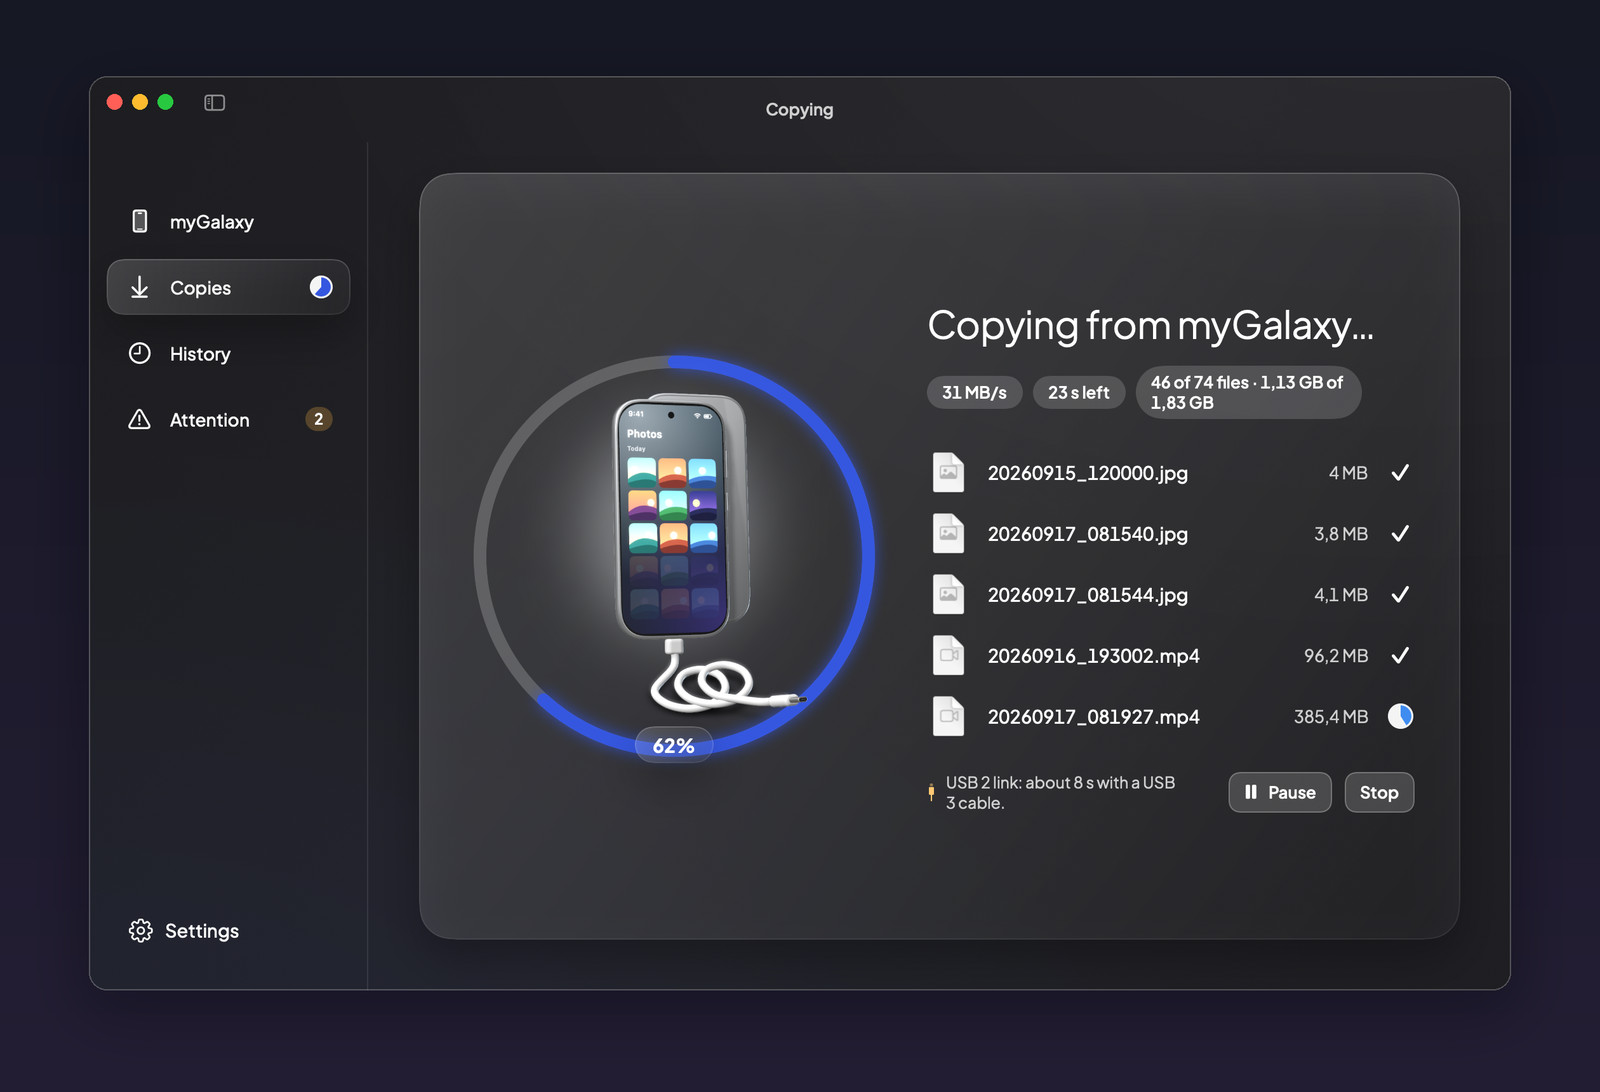
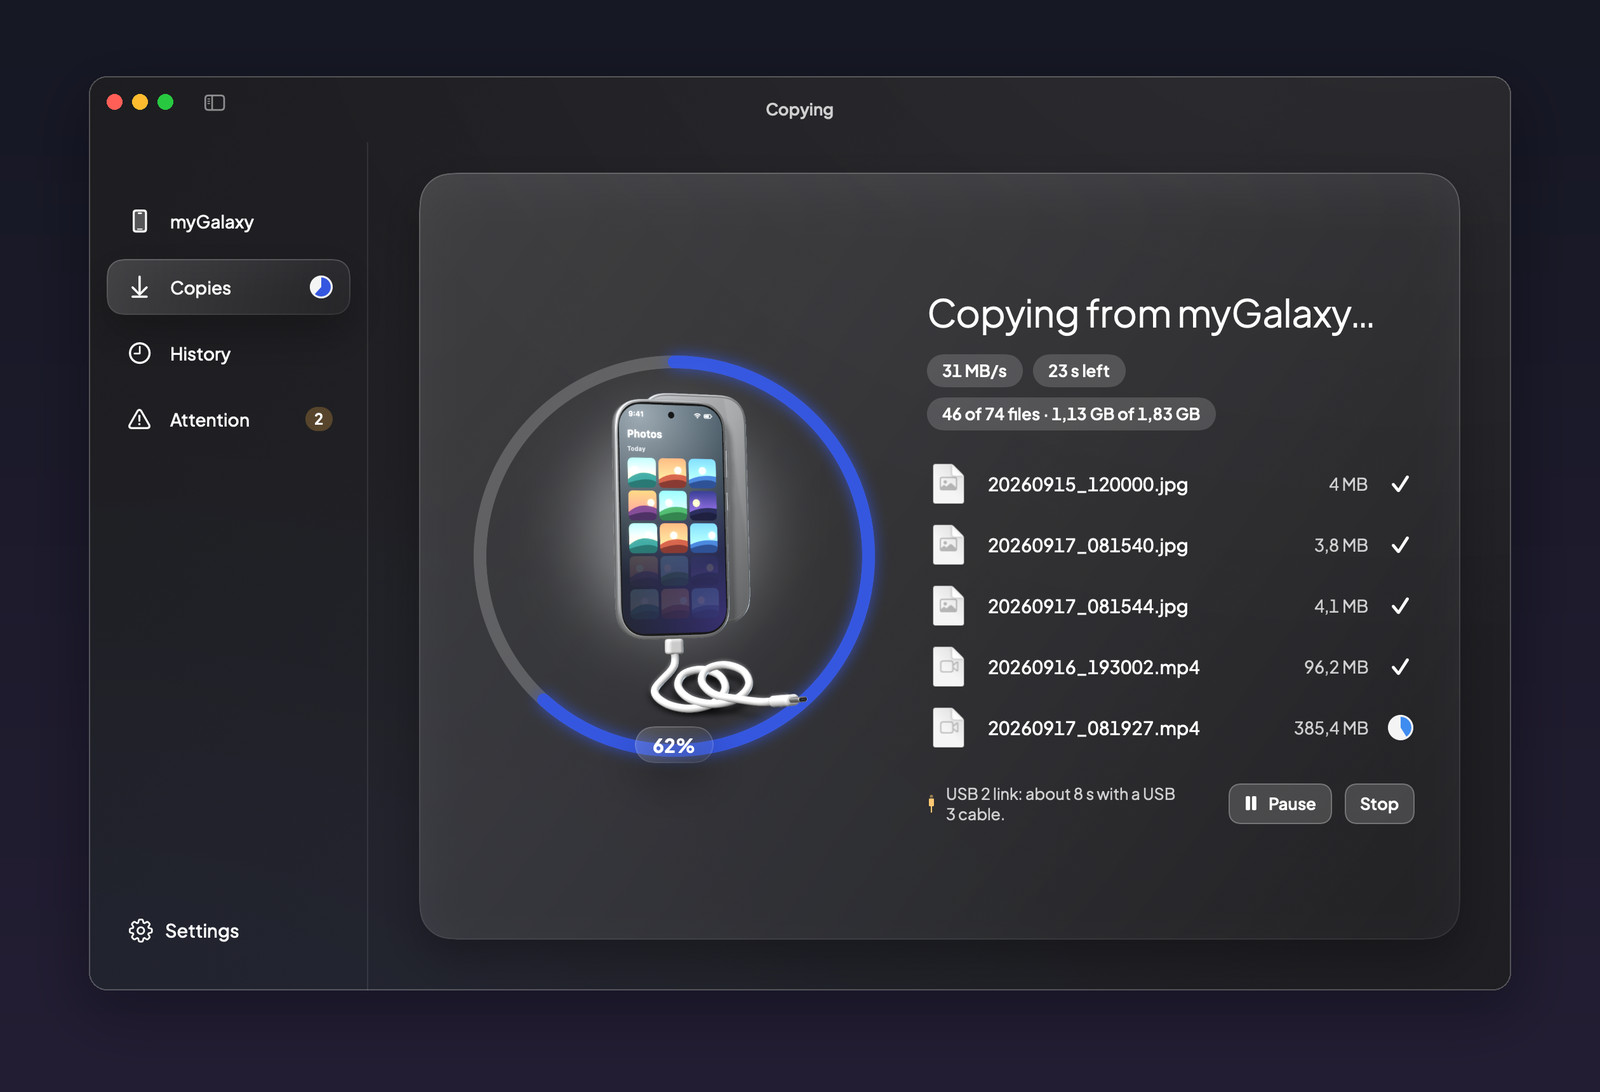
README: a looping animation of Pulli at work (light and dark), rendered by the app's new --readme-frames mode; copy screen keeps its layout steady while numbers grow

diff --git a/Sources/Pulli/Snapshots.swift b/Sources/Pulli/Snapshots.swift
@@ -74,6 +74,81 @@ enum Snapshots {
         print("wrote snapshots to \(folder.path)")
     }
 
+    /// `Pulli --readme-frames DIR`: the frames of the README's animation, dark and light, from the
+    /// sample phone. One copy of its Camera folder from start to finish (waiting, ready, copying,
+    /// unplugged, copying again, done); every frame shows the same batch, so its numbers carry on
+    /// from one scene to the next. Frames only: another tool puts them together.
+    static func renderReadmeFrames(to folder: URL) {
+        _ = NSApplication.shared
+        try? FileManager.default.createDirectory(at: folder, withIntermediateDirectories: true)
+        let files = cameraFiles
+        let totalBytes = files.reduce(UInt64(0)) { $0 + $1.sizeBytes }
+        let speed = 31_400_000.0
+        // How long the phone stays unplugged; the finished screen's time and average include it.
+        let unplugged: TimeInterval = 8
+        let now = Date()
+
+        /// The Camera copy with `fraction` of its bytes on the Mac, files finished in order.
+        func batch(_ fraction: Double, _ phase: BatchPhase, resumed: Bool = false) -> BatchSnapshot {
+            let bytesDone = UInt64((Double(totalBytes) * fraction).rounded())
+            var finished = 0
+            var finishedBytes: UInt64 = 0
+            while finished < files.count, finishedBytes + files[finished].sizeBytes <= bytesDone {
+                finishedBytes += files[finished].sizeBytes
+                finished += 1
+            }
+            let recent = (0..<finished).reversed().prefix(BatchSnapshot.recentLimit).map {
+                FileSnapshot(jobID: Int64($0), name: files[$0].name, sizeBytes: files[$0].sizeBytes, bytesDone: files[$0].sizeBytes, state: .done)
+            }
+            let current = finished < files.count
+                ? FileSnapshot(jobID: Int64(finished), name: files[finished].name, sizeBytes: files[finished].sizeBytes,
+                               bytesDone: bytesDone - finishedBytes, state: .copying)
+                : nil
+            let copying = phase == .copying
+            let remaining = Double(totalBytes - bytesDone)
+            let elapsed = Double(bytesDone) / speed + (resumed ? unplugged : 0)
+            return BatchSnapshot(id: 13, deviceID: phone.id, deviceName: "myGalaxy", title: "Camera",
+                                 destinationPath: NSHomeDirectory() + "/Downloads/myGalaxy", phase: phase,
+                                 filesTotal: files.count, filesDone: finished, filesSkipped: 0, filesNeedingAttention: 0,
+                                 bytesTotal: totalBytes, bytesDone: bytesDone, bytesPerSecond: copying ? speed : 0,
+                                 // No "1 s left" on the last frame, when nothing is left.
+                                 secondsRemaining: copying && remaining > 0 ? remaining / speed : nil,
+                                 current: phase == .completed ? nil : current, recent: recent,
+                                 createdAt: now.addingTimeInterval(-elapsed), finishedAt: phase == .completed ? now : nil)
+        }
+
+        /// The sample state with only this copy and one older, finished one (nothing else running
+        /// or needing attention to catch the eye).
+        func model(_ batch: BatchSnapshot?, connected: Bool = true) -> AppModel {
+            var story = state
+            story.batches = story.batches.filter { $0.key == 9 }
+            if let batch { story.batches[batch.id] = batch }
+            if !connected { story.devices = [:] }
+            let model = AppModel(preview: story, summaries: [phone.id: summary])
+            model.previewListings = ["/DCIM/Camera": cameraFiles]
+            model.picks = [.camera]
+            if let batch { model.section = .copies; model.focusedBatchID = batch.id }
+            return model
+        }
+
+        var frames: [(String, AppModel)] = [("01-waiting", model(nil, connected: false)), ("02-ready", model(nil))]
+        for index in 0..<30 {
+            frames.append((String(format: "03-copying-%03d", index), model(batch(0.62 * Double(index) / 29, .copying))))
+        }
+        frames.append(("04-unplugged", model(batch(0.62, .paused(.phoneDisconnected)), connected: false)))
+        for index in 0..<20 {
+            frames.append((String(format: "05-resuming-%03d", index), model(batch(0.62 + 0.38 * Double(index) / 19, .copying, resumed: true))))
+        }
+        frames.append(("06-done", model(batch(1, .completed, resumed: true))))
+
+        for dark in [true, false] {
+            for (name, model) in frames {
+                write(MainWindow().environment(model), size: CGSize(width: 1120, height: 720), dark: dark, to: folder, name: name)
+            }
+        }
+        print("wrote README frames to \(folder.path)")
+    }
+
     /// `Pulli --themes DIR`: the phone screen in every theme, dark and light, one file each, and a
     /// board with all of them side by side (themes.png) to choose from.
     static func renderThemes(to folder: URL) {

diff --git a/Sources/Pulli/PulliApp.swift b/Sources/Pulli/PulliApp.swift
@@ -6,6 +6,7 @@ import SwiftUI
 //   Pulli                      real phones (engine in the app, or the background helper)
 //   Pulli --mock               a simulated phone
 //   Pulli --snapshot DIR       render every screen to PNG files and exit (design checks)
+//   Pulli --readme-frames DIR  render the frames of the README's animation (one copy, start to finish)
 //   Pulli --art-poses DIR      render the 3D art at the pointer's extremes (checks for cut-off edges;
 //                              PULLI_POSE_WIDTH=900 renders it large, to check bevels for seams)
 //   PULLI_ART_POINTER=1,-1     with --snapshot: every screen's art turned to that extreme
@@ -23,6 +24,10 @@ enum Entry {
         }
         if let index = arguments.firstIndex(of: "--snapshot"), arguments.indices.contains(index + 1) {
             MainActor.assumeIsolated { Snapshots.render(to: URL(fileURLWithPath: arguments[index + 1])) }
+            exit(0)
+        }
+        if let index = arguments.firstIndex(of: "--readme-frames"), arguments.indices.contains(index + 1) {
+            MainActor.assumeIsolated { Snapshots.renderReadmeFrames(to: URL(fileURLWithPath: arguments[index + 1])) }
             exit(0)
         }
         if let index = arguments.firstIndex(of: "--dmg-background"), arguments.indices.contains(index + 1) {
@@ -233,7 +238,7 @@ final class AppDelegate: NSObject, NSApplicationDelegate, SPUUpdaterDelegate {
     static var shouldEnableUpdater: Bool {
         if ProcessInfo.processInfo.environment["XCODE_RUNNING_FOR_PREVIEWS"] == "1" { return false }
         if CommandLine.arguments.contains("--mock") || ProcessInfo.processInfo.environment["PULLI_MOCK"] == "1" { return false }
-        if CommandLine.arguments.contains("--snapshot") || CommandLine.arguments.contains("--themes")
+        if CommandLine.arguments.contains("--snapshot") || CommandLine.arguments.contains("--readme-frames") || CommandLine.arguments.contains("--themes")
             || CommandLine.arguments.contains("--art-poses") || CommandLine.arguments.contains("--flyer")
             || CommandLine.arguments.contains("--dmg-background") || CommandLine.arguments.contains("--icon") { return false }
         if NSClassFromString("XCTest") != nil || ProcessInfo.processInfo.environment["XCTestConfigurationFilePath"] != nil { return false }

diff --git a/Sources/Pulli/CopyScreens.swift b/Sources/Pulli/CopyScreens.swift
@@ -25,11 +25,18 @@ struct CopyingView: View {
                 VStack(alignment: .leading, spacing: 14) {
                     Text(scanning ? "Looking through \(batch.title)…" : "Copying from \(batch.deviceName)…")
                         .font(.pulli(30, .regular)).tracking(-0.3).lineLimit(1).minimumScaleFactor(0.7)
-                    HStack(spacing: 8) {
-                        if batch.bytesPerSecond > 0 { Chip(text: Format.speed(batch.bytesPerSecond)) }
-                        if let left = batch.secondsRemaining, !scanning { Chip(text: "\(Format.duration(left)) left") }
+                    // Two fixed lines of single-line chips: as the numbers grow nothing wraps, so the
+                    // title above never jumps.
+                    VStack(alignment: .leading, spacing: 8) {
+                        HStack(spacing: 8) {
+                            if batch.bytesPerSecond > 0 { Chip(text: Format.speed(batch.bytesPerSecond)).fixedSize() }
+                            if let left = batch.secondsRemaining, !scanning { Chip(text: "\(Format.duration(left)) left").fixedSize() }
+                            // Holds the line's height before the first speed and time are known.
+                            Chip(text: " ").hidden().frame(width: 0)
+                        }
                         Chip(text: scanning ? "\(Format.count(batch.filesTotal, "file")) found"
                              : "\(batch.filesDone.formatted()) of \(Format.count(batch.filesTotal, "file")) · \(Format.bytes(batch.bytesDone)) of \(Format.bytes(batch.bytesTotal))")
+                            .fixedSize()
                     }
                     FileList(batch: batch).padding(.top, 4)
                     HStack(spacing: 10) {
@@ -87,6 +94,8 @@ private struct FileList: View {
                 Text(batch.phase == .scanning ? "Finding files…" : "Starting…").font(.pulli(13.5)).foregroundStyle(tone.t2).frame(height: 48)
             }
         }
+        // Room for all five rows from the start, so the screen does not shift as files finish.
+        .frame(height: 5 * 48, alignment: .top)
         .animation(.easeInOut(duration: 0.3), value: batch.recent.first?.jobID)
     }
 

diff --git a/Sources/Pulli/PhoneScreens.swift b/Sources/Pulli/PhoneScreens.swift
@@ -6,6 +6,7 @@ import SwiftUI
 
 struct WelcomeView: View {
     @Environment(\.tone) private var tone
+    @Environment(\.isSnapshot) private var isSnapshot
     @State private var float = false
     @Environment(\.accessibilityReduceMotion) private var reduceMotion
 
@@ -33,9 +34,16 @@ struct WelcomeView: View {
         }
         .frame(maxWidth: .infinity, maxHeight: .infinity)
         .overlay(alignment: .bottomTrailing) {
-            Link("Phone not showing up?", destination: URL(string: "https://support.google.com/android/answer/9064445")!)
-                .font(.pulli(12.5, .semibold)).foregroundStyle(tone.t2)
-                .padding(24)
+            Group {
+                // ImageRenderer draws a link as a yellow placeholder, so snapshots show its words.
+                if isSnapshot {
+                    Text("Phone not showing up?")
+                } else {
+                    Link("Phone not showing up?", destination: URL(string: "https://support.google.com/android/answer/9064445")!)
+                }
+            }
+            .font(.pulli(12.5, .semibold)).foregroundStyle(tone.t2)
+            .padding(24)
         }
         // No float: the 3D phone turns toward the pointer, and a SwiftUI animation that never
         // stops costs CPU the whole time the window is open.

diff --git a/README.md b/README.md
@@ -16,8 +16,8 @@
 <p align="center">or with <a href="https://brew.sh">Homebrew</a>:&nbsp; <code>brew install --cask ijahongirmirzo/tap/pulli</code></p>
 
 <picture>
-  <source media="(prefers-color-scheme: dark)" srcset="docs/images/hero-dark.jpg">
-  <img alt="Pulli showing a connected Galaxy phone: new photos, camera, screenshots and downloads, with a tip that a USB 3 cable would be three times faster" src="docs/images/hero-light.jpg">
+  <source media="(prefers-color-scheme: dark)" srcset="docs/images/pulli-in-action-dark.webp">
+  <img alt="Pulli in action: the phone is found, its photos are ready, the copy runs, the cable is pulled at 62 percent, Pulli waits, then carries on by itself to Copy complete" src="docs/images/pulli-in-action-light.webp">
 </picture>
 
 ## Why Pulli
